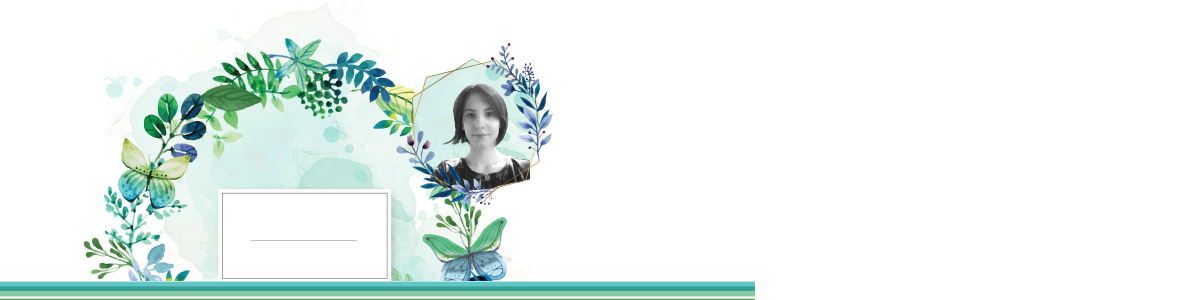
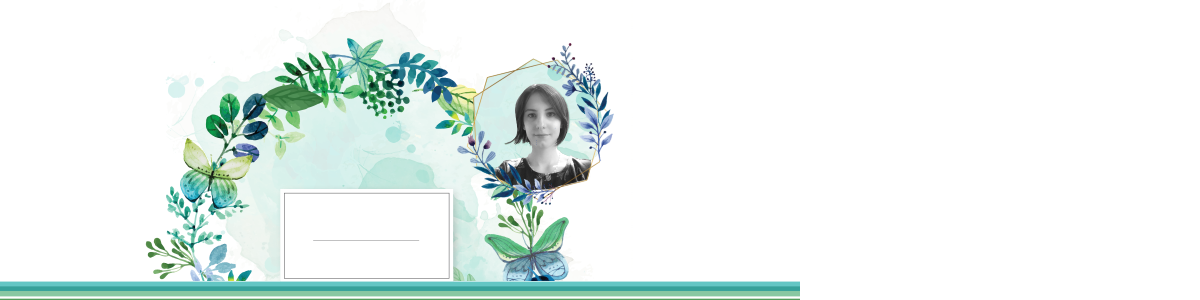
fixing layout some more

Changed region(s): [[0.0617, 0.12, 0.5242, 0.96], [0.6167, 0.93, 0.6783, 1.0]]

diff --git a/index.html b/index.html
@@ -108,11 +108,9 @@
     <article>
         <section class="resume">
 
-            <h3>Summary</h3>
+            <h3 class="resumetitle">Summary</h3>
             <p class="summary">
              Looking for new oppurtunities to grow within the local tech community, passionate for sewing and creative problem solving.
-            </p>
-            <p class="summary">
               Open to new endevours and expereinced with the needs of start up buisnesses.</p>
     
           <div class="skills">
@@ -128,7 +126,7 @@
             
             <div class="flex-grid">
                 
-                <div class="col"> <span class="texttitle">Recognized Applications</span> Google Analytics, Google Adwords, SEO, Facebook Buisness, Instagram Buisness, Facebook Analytics</div>
+                <div class="col"> <span class="texttitle">Recognized Tools</span> Google Analytics, Google Adwords, SEO, Facebook Buisness, Instagram Buisness, Facebook Analytics</div>
 
                 <div class="col"><span class="texttitle">Personal</span>Communicative, Adaptive, Quick Learner, Quality Standards, Creative Thinking, Self Motivated, team player, time management</div>
                 <div class="col"><span class="texttitle">Other</span> Excellent in English, Comprehensive Writing, Proficient Customer Care, Mechanical Inclination</div>
@@ -146,38 +144,37 @@
              
               <h3 class="resumetitle">Experience</h3>
       
-              <ul>
-                <li> <span class="texttitle">Sewing Machine Technician, Cindy-rella’s Sewing and Quilting Nov 2017 - July 2018 </span>  <br>
+              <ul class="experience">
+                <p> <span class="texttitle">Sewing Machine Technician, Cindy-rella’s Sewing and Quilting Nov 2017 - July 2018 </span>  <br>
                 Completed Certification Courses on mechanical and electronic repairs for sewing machines. Specialized with Bernina top line machines. 
                 Duties include diagnosing equipment failures mechanical/electrical. 
                 Repair and maintenance of machinery, installation of faulty or broken components. 
                 Pre-pair estimates and work orders for clients. </li>
                 <br>
-                <li><span class="texttitle">Owner, NimbleNymph Designs, Jan 2017 - Current </span>  <br>
+                <p><span class="texttitle">Owner, NimbleNymph Designs, Jan 2017 - Current </span>  <br>
                 While my duration as a sewing machine technician I found myself to have abundant outside work. 
                 At the time it made sense to start a home buisness to keep costs low for customers. Feelance work 
-                included custom quilts, teddy-bears, dolls, embroidery aswell as classes, supplies rental and consultations.</li>
+                included custom quilts, teddy-bears, dolls, embroidery aswell as classes, supplies rental and consultations.</p>
         
                 <br>
-                <li> <span class="texttitle">Pet Therapy, Regina Humane Society, Sept 2015 - July 2018 </span>  <br>
+                <p> <span class="texttitle">Pet Therapy, Regina Humane Society, Sept 2015 - July 2018 </span>  <br>
                 Dogs or cats would be transported to long-term care homes or rehabiltations facilties. Interactions  
-                required helping individuals interact with therapy-animal and maintains animals mental and physical wellbeing.
-                </li>
+                required helping individuals interact with therapy-animal and maintains animals mental and physical wellbeing. </p>
                 <br>
-                <li><span class="texttitle">Director, Dancing Dragons Performance Equipment LTD, Jan 2014 - Sept 2016 </span>  <br>
+                <p><span class="texttitle">Director, Dancing Dragons Performance Equipment LTD, Jan 2014 - Sept 2016 </span>  <br>
                 Start up corporation, manufacturing and distribution of circus/performance equipment. 
                 Encouraging engagement from all ages with attempt to offer educational options,
-                hosting classes of all artist variety, conducting recreational space, business management.</li>
+                hosting classes of all artist variety, conducting recreational space, business management.</p>
                 <br>
 
-                <li><span class="texttitle">Kitchen Manager, Magpies Kitchen, Nov 2013 - Oct 2016</span> <br>
+                <p><span class="texttitle">Kitchen Manager, Magpies Kitchen, Nov 2013 - Oct 2016</span> <br>
                 Open kitchen in morning, prepare daily menu, manage worker duties, 
                 receive orders, stock orders, log kitchen stocks, log temperatures. 
-                Co-ordinate with front counter staff and kitchen staff on a daily basis.</li>
+                Co-ordinate with front counter staff and kitchen staff on a daily basis.</p>
 
-                </ul>
+               
 
-                <h3>Hobbies</h3>
+                <h3 class="hobbies">Hobbies</h3>
                 <div class="flex-grid">
             
                     <div class="col"> 
@@ -211,8 +208,10 @@
                       
                         </div>
                     </div>
+                    <footer> <span class="texttitle">Thanks for visiting!</span> <span class="glyphicon glyphicon-heart"></span> </footer>
+                  </div>
 
-                <footer> <span class="texttitle">Thanks for visiting!</span> <span class="glyphicon glyphicon-heart"></span> </footer>
+
           </section>
     </article>
     </main> 

diff --git a/styles/nav.css b/styles/nav.css
@@ -16,15 +16,15 @@ margin-bottom: 2em;
   display: flex;
   font-size: 200%;
   margin-top: 5.8em;
-  padding-left: 6.2em
+  padding-left: 8.15em
 
 }
  
 .blurbtitle {
   display: flex;
   font-size: 120%;
-  margin-top: .5em;
-  padding-left: 10.8em;
+  margin-top: .6em;
+  padding-left: 14.2em;
   
  }
 

diff --git a/styles/index.css b/styles/index.css
@@ -11,8 +11,21 @@
     margin: 0;
   }
 
+  .hobbies {
+    text-align: center;
+    margin-bottom: 1em;
+  }
+
+  
+
+  .experience {
+
+  text-align: left;
+  }
+
   .summary {
     text-align: center;
+    margin-bottom: 2em;
   }
 
   .texttitle {
